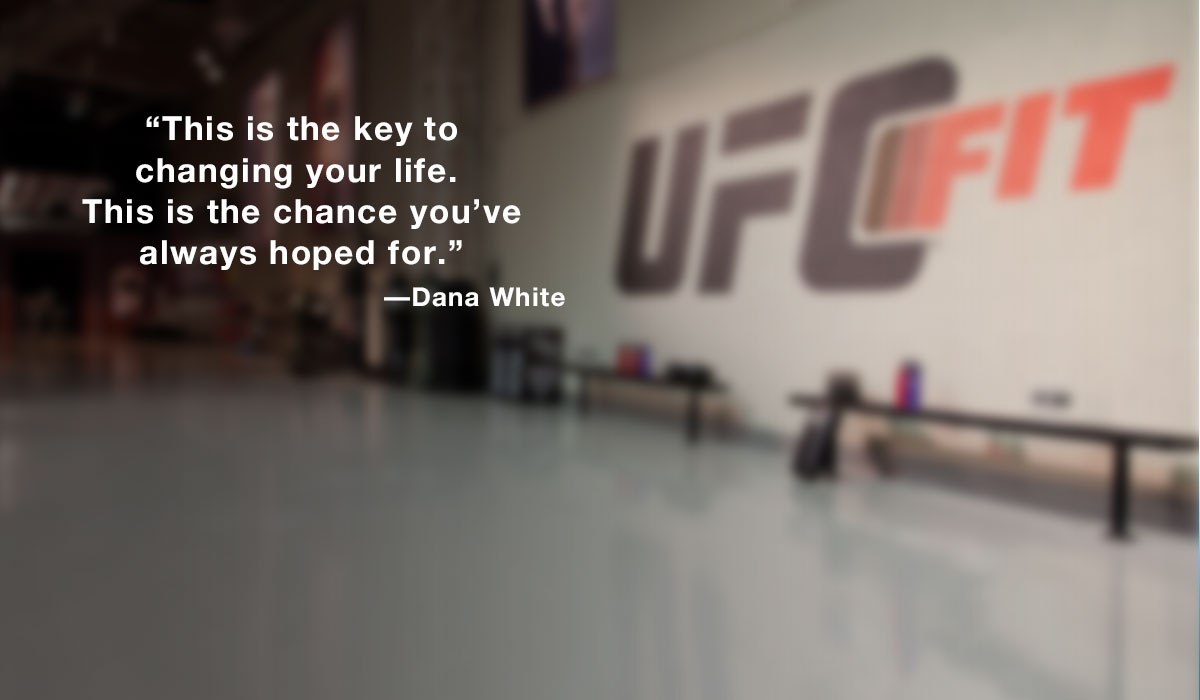
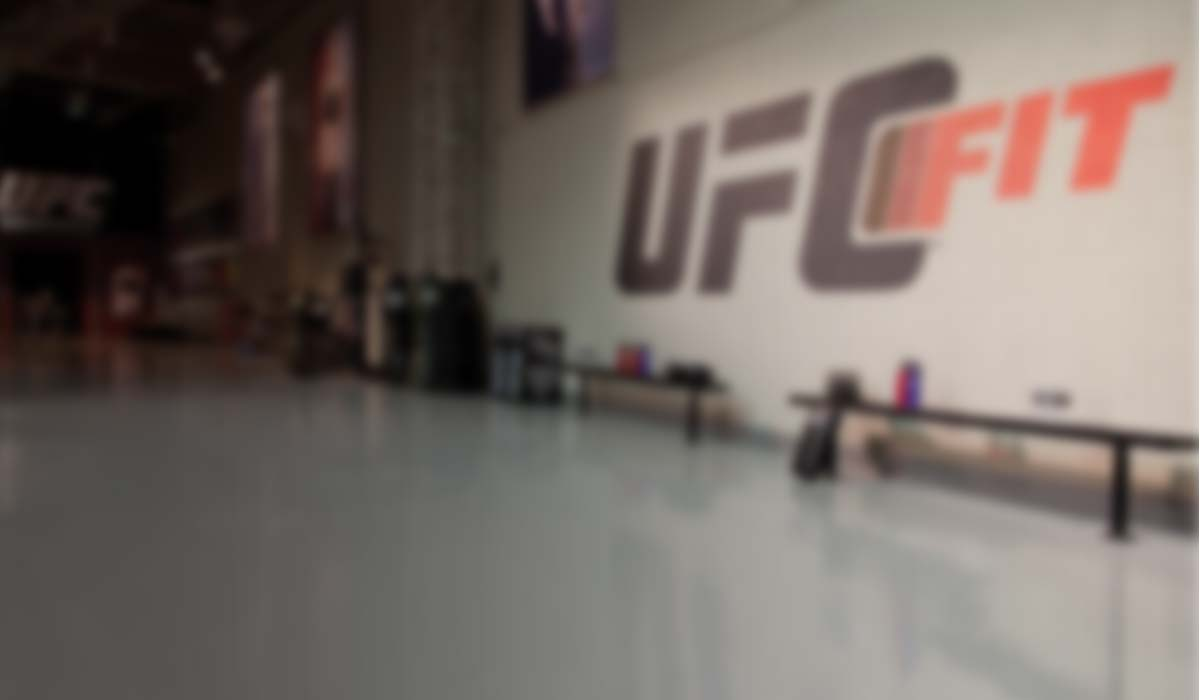
new background images without text

Changed region(s): [[0.0617, 0.15, 0.4933, 0.45], [0.9867, 0.81, 1.0, 1.0], [0.9867, 0.75, 1.0, 0.78]]

diff --git a/app/assets/stylesheets/site/temp_signup_form.css.scss b/app/assets/stylesheets/site/temp_signup_form.css.scss
@@ -3,11 +3,24 @@
 img {max-width: 200%;}
 
 
-
+#key-to-changing {
+  position:relative;
+  left:80px;
+  top:20px;
+  color:white;
+  font-size:40px;
+  span {
+    &.line-one {margin-left:60px;}
+    &.line-two {margin-left:50px;}
+    &.line-three {margin-left:0px;}
+    &.line-four {margin-left:55px;}
+    &.line-five {margin-left:190px;}
+  }
+}
 #signup_form_wrapper {
   position:relative;
   width:840px;
-  top:330px;
+  top:50px;
   left:120px;
 
   div#input-fields {

diff --git a/app/assets/javascripts/rotate_images.js b/app/assets/javascripts/rotate_images.js
@@ -34,6 +34,7 @@ if (typeof Hadean.Welcome.rotateImages == "undefined") {
             $('#signup_form_wrapper').css('width', '370px');
             $('.nofity-button-wrapper').css('margin-top', '10px');
             $('#mobile-banner').show();
+            $('key-to-changing').hide();
             $('#main-landing-signup-image').hide();
             $('#mobile-landing-signup-image').show();
             $('#input-fields').css('width', 353);
